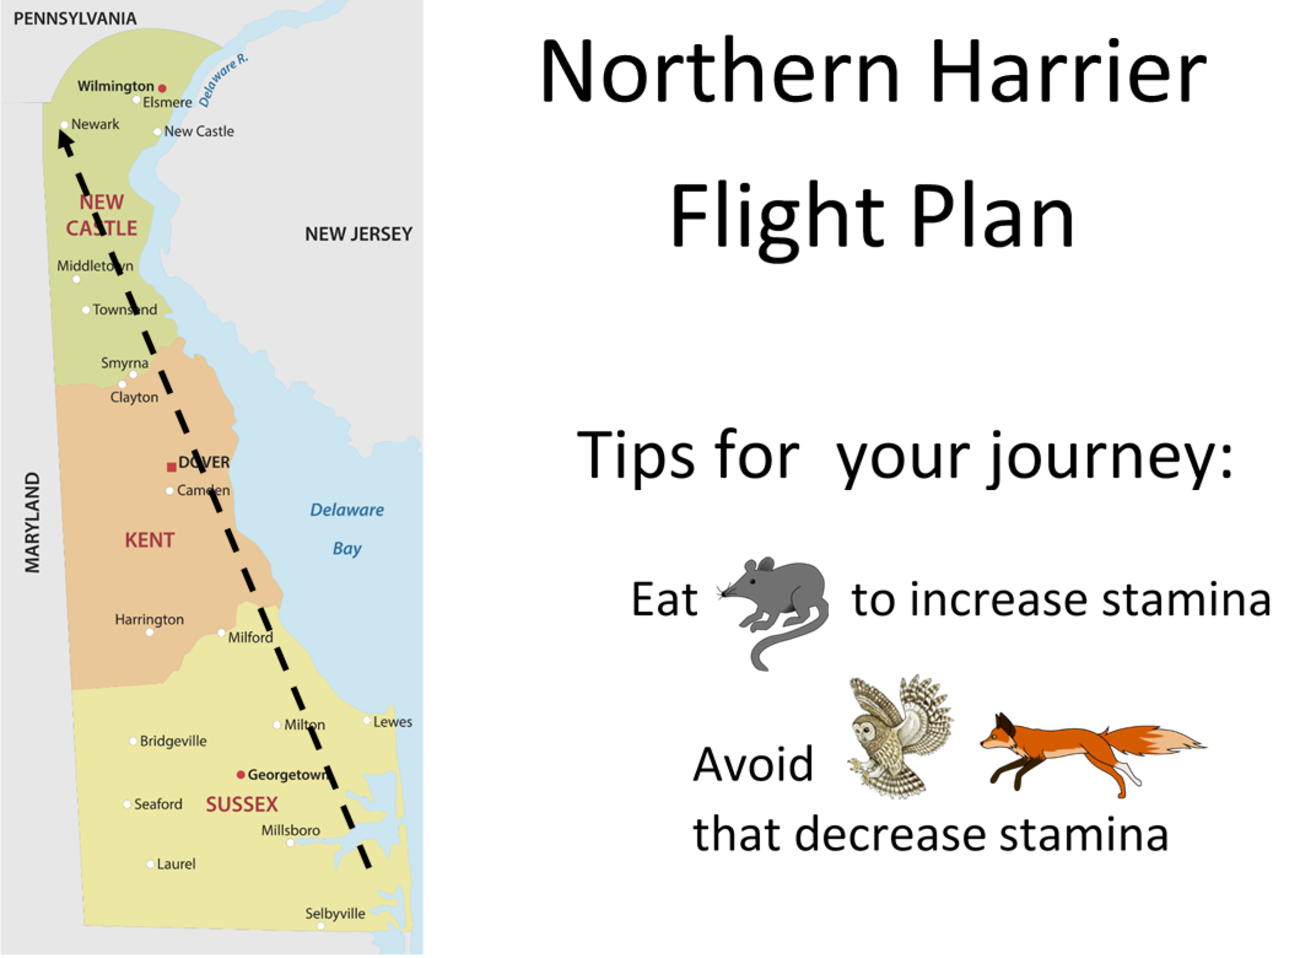
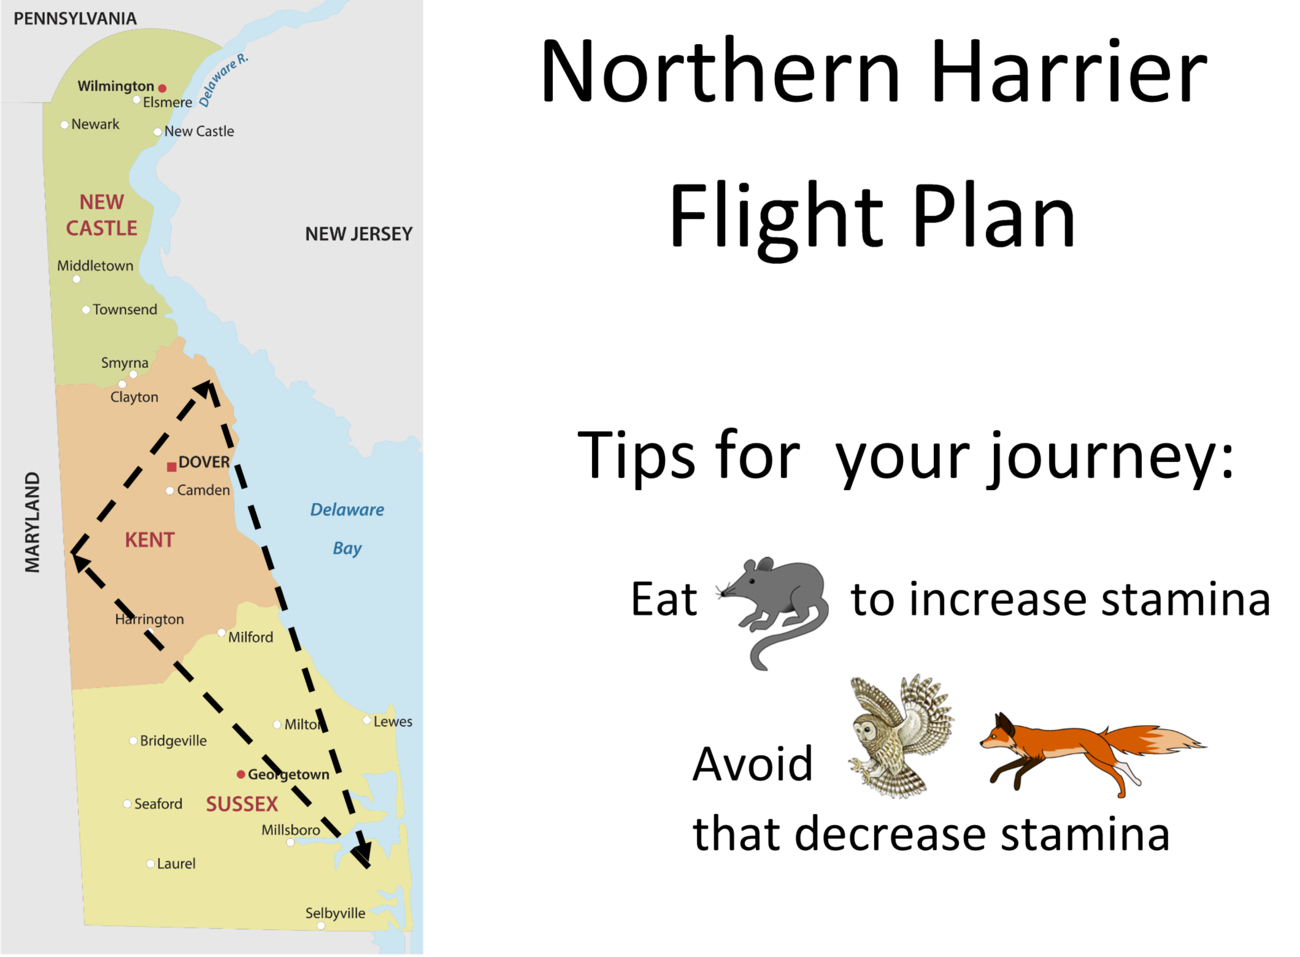
updated flight plans for both birds to reflect new minimap paths

diff --git a/src/Model.java b/src/Model.java
@@ -27,7 +27,7 @@ public class Model implements Serializable {
 	/**
 	 * The constant representing the total distance needed to be traveled
 	 */
-	private static final int END_DISTANCE = 10000;
+	private static final int END_DISTANCE = 40000;
 	/**
 	 * The Bird the player will control
 	 */
